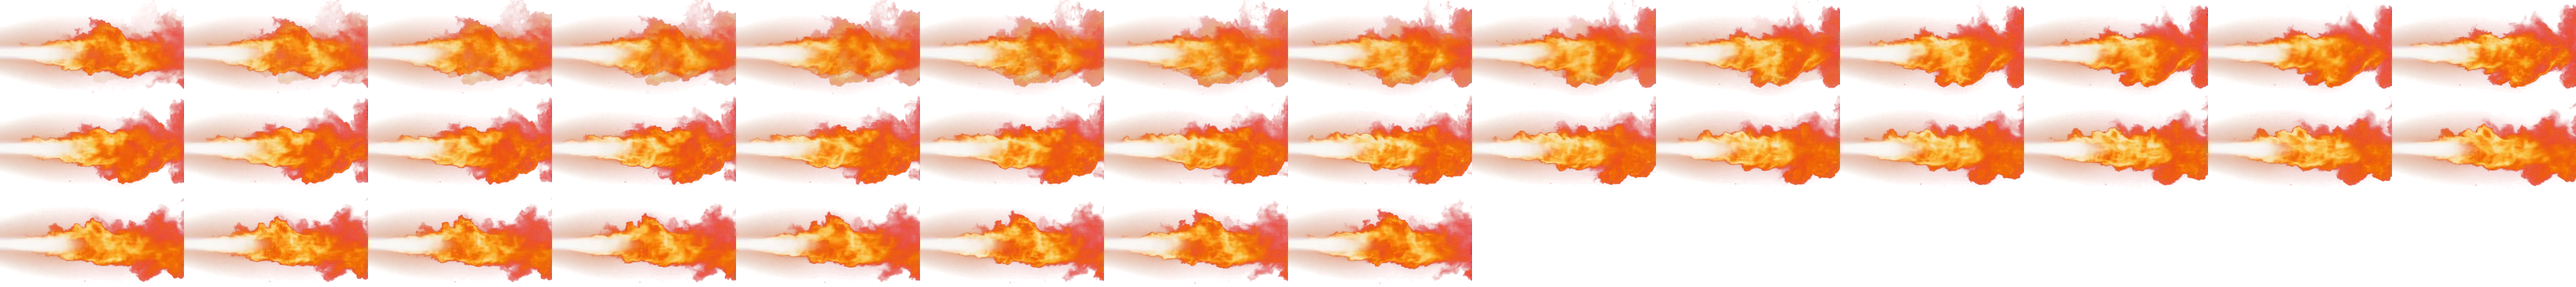
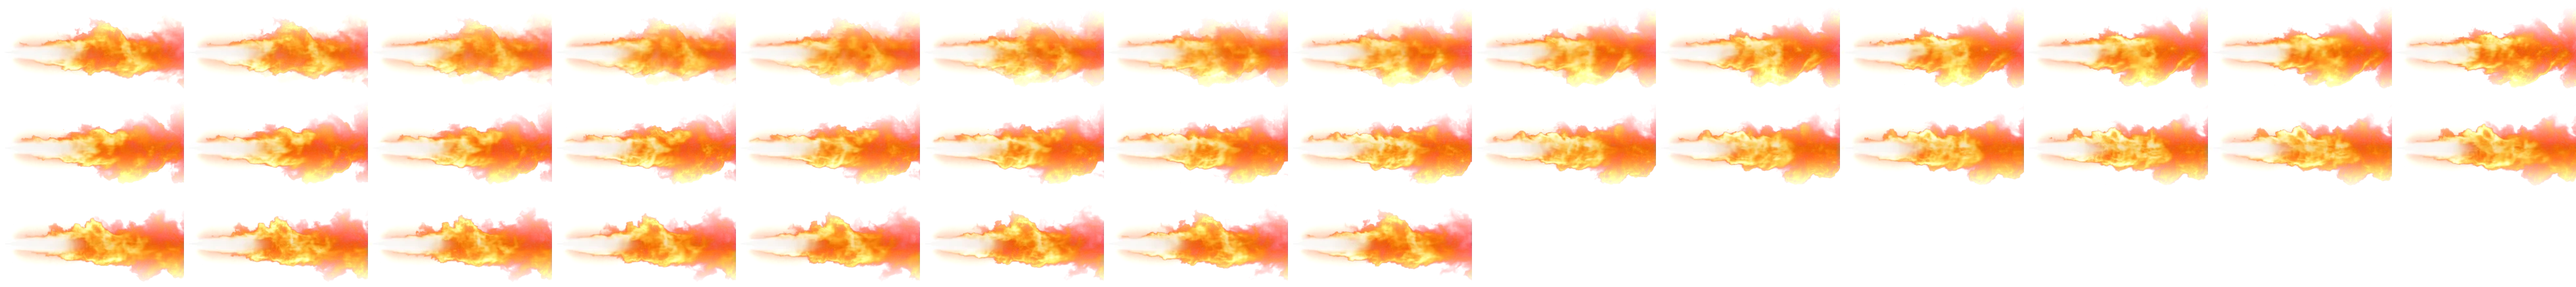
GoT: fire from between the jaws; no straight edges; roomier dock; rustic books
Checked on the TV by screen recording, at full resolution:
- The fire's origin was the snout tip (the upper jaw), so it seemed to
  sit on top of the head. dragon_sprites.py now finds the open mouth
  from the head's profile (the notch between the jaw tips) in every
  frame, and fire runs only while the jaws are both forward and open,
  so it stops as they close instead of trailing from a shut mouth.
- The fire footage entered from its frame edge as a solid bar, a hard
  vertical line. fire_sprites.py tapers it into a soft cone from a
  point and drops the faint haze whose straight edges showed.
- Dock: a theme can ask for more room per app (DOCK_CELL); GoT uses
  up to 380 px, so the dragon lands in the gaps between apps.
- GoT books: worn leather, bronze bands, the art inlaid like a plate,
  a parchment label in Cinzel; spine numerals sit between the bands
  instead of on the second one.

diff --git a/adult-space/hogwarts-tv/app/src/main/assets/www/dragon/dragon.js b/adult-space/hogwarts-tv/app/src/main/assets/www/dragon/dragon.js
@@ -1,2 +1,2 @@
 // made by tools/dragon_sprites.py from dragon/src/*.mp4
-window.DRAGON_SHEETS = {"idle": {"src": "dragon/idle.webp", "n": 61, "fps": 12.0, "cw": 191, "ch": 141, "h": 140, "footX": 124.7, "footY": 140.0, "frames": [[0, 0, 185, 141, 6, 0], [185, 0, 185, 141, 6, 0], [370, 0, 185, 141, 6, 0], [555, 0, 185, 141, 6, 0], [740, 0, 185, 141, 6, 0], [925, 0, 185, 141, 6, 0], [1110, 0, 185, 141, 6, 0], [1295, 0, 185, 141, 6, 0], [1480, 0, 185, 141, 6, 0], [1665, 0, 185, 141, 6, 0], [1850, 0, 185, 141, 6, 0], [2035, 0, 185, 141, 6, 0], [2220, 0, 185, 141, 6, 0], [2405, 0, 185, 141, 6, 0], [2590, 0, 185, 141, 6, 0], [2775, 0, 185, 141, 6, 0], [2960, 0, 185, 141, 6, 0], [3145, 0, 186, 141, 5, 0], [3331, 0, 186, 141, 5, 0], [3517, 0, 187, 141, 4, 0], [3704, 0, 186, 141, 3, 0], [0, 141, 186, 141, 3, 0], [186, 141, 186, 141, 2, 0], [372, 141, 186, 141, 1, 0], [558, 141, 187, 141, 0, 0], [745, 141, 186, 141, 0, 0], [931, 141, 186, 141, 0, 0], [1117, 141, 185, 141, 0, 0], [1302, 141, 185, 141, 0, 0], [1487, 141, 185, 141, 0, 0], [1672, 141, 185, 141, 0, 0], [1857, 141, 185, 141, 0, 0], [2042, 141, 185, 141, 0, 0], [2227, 141, 185, 141, 0, 0], [2412, 141, 185, 141, 0, 0], [2597, 141, 185, 141, 0, 0], [2782, 141, 185, 141, 0, 0], [2967, 141, 185, 141, 0, 0], [3152, 141, 185, 141, 0, 0], [3337, 141, 186, 141, 0, 0], [3523, 141, 187, 141, 0, 0], [3710, 141, 188, 141, 0, 0], [0, 282, 188, 141, 1, 0], [188, 282, 187, 141, 2, 0], [375, 282, 189, 141, 2, 0], [564, 282, 187, 141, 3, 0], [751, 282, 187, 141, 4, 0], [938, 282, 187, 141, 4, 0], [1125, 282, 186, 141, 5, 0], [1311, 282, 186, 141, 5, 0], [1497, 282, 185, 141, 6, 0], [1682, 282, 185, 141, 6, 0], [1867, 282, 185, 141, 6, 0], [2052, 282, 185, 141, 6, 0], [2237, 282, 185, 141, 6, 0], [2422, 282, 185, 141, 6, 0], [2607, 282, 185, 141, 6, 0], [2792, 282, 185, 141, 6, 0], [2977, 282, 185, 141, 6, 0], [3162, 282, 185, 141, 6, 0], [3347, 282, 185, 141, 6, 0]]}, "hop": {"src": "dragon/hop.webp", "n": 61, "fps": 12.0, "cw": 448, "ch": 331, "h": 140, "footX": 212.7, "footY": 328.9, "frames": [[1396, 1999, 186, 145, 97, 186], [0, 2238, 190, 145, 97, 186], [752, 2238, 197, 144, 94, 187], [0, 2383, 207, 141, 93, 190], [626, 2383, 216, 134, 91, 197], [1088, 2383, 224, 125, 89, 206], [1312, 2383, 246, 123, 72, 208], [949, 2238, 275, 144, 48, 187], [835, 1999, 284, 172, 41, 159], [270, 1999, 284, 224, 43, 107], [0, 1734, 275, 265, 52, 66], [817, 619, 271, 278, 53, 53], [546, 1189, 284, 272, 25, 59], [1074, 1734, 283, 247, 0, 79], [1357, 1734, 290, 239, 75, 80], [277, 1464, 269, 268, 178, 45], [1374, 1464, 269, 267, 179, 33], [551, 1734, 252, 261, 171, 25], [0, 1999, 270, 239, 79, 23], [803, 1734, 271, 257, 9, 0], [546, 1464, 271, 268, 9, 0], [543, 619, 274, 285, 6, 0], [1337, 0, 325, 300, 9, 0], [830, 1189, 300, 272, 115, 33], [817, 1464, 284, 268, 159, 27], [1101, 1464, 273, 268, 170, 25], [1088, 619, 265, 278, 147, 23], [0, 912, 281, 277, 61, 20], [0, 619, 275, 293, 5, 0], [865, 323, 267, 294, 13, 0], [786, 0, 275, 305, 5, 0], [1132, 323, 326, 294, 19, 27], [1353, 619, 290, 278, 139, 44], [272, 1189, 274, 273, 170, 42], [281, 912, 270, 276, 171, 37], [1085, 912, 262, 275, 143, 35], [0, 1464, 277, 270, 58, 32], [319, 323, 275, 295, 5, 0], [594, 323, 271, 295, 9, 0], [1061, 0, 276, 305, 4, 0], [0, 323, 319, 296, 18, 17], [1347, 912, 291, 275, 130, 32], [0, 1189, 272, 275, 170, 28], [551, 912, 273, 276, 169, 28], [824, 912, 261, 276, 142, 38], [1130, 1189, 287, 271, 48, 45], [511, 0, 275, 313, 6, 10], [0, 0, 259, 323, 23, 0], [259, 0, 252, 318, 33, 13], [275, 619, 268, 287, 25, 44], [275, 1734, 276, 264, 32, 67], [554, 1999, 281, 215, 35, 116], [1119, 1999, 277, 150, 41, 181], [842, 2383, 246, 129, 68, 202], [411, 2383, 215, 136, 91, 195], [207, 2383, 204, 141, 94, 190], [1416, 2238, 196, 143, 97, 188], [1224, 2238, 192, 144, 97, 187], [190, 2238, 189, 145, 97, 186], [379, 2238, 186, 145, 97, 186], [565, 2238, 187, 145, 97, 186]], "up": 1.17, "down": 4.0, "end": 5.08}, "breath": {"src": "dragon/breath.webp", "n": 61, "fps": 12.0, "cw": 236, "ch": 151, "h": 140, "footX": 135.9, "footY": 150.5, "frames": [[2684, 0, 187, 144, 18, 7], [2871, 0, 185, 144, 18, 7], [2502, 0, 182, 145, 19, 6], [2323, 0, 179, 147, 19, 4], [2148, 0, 175, 148, 20, 3], [1808, 0, 171, 149, 21, 2], [1979, 0, 169, 149, 21, 2], [1479, 0, 165, 150, 22, 1], [1644, 0, 164, 150, 23, 1], [0, 0, 164, 151, 23, 0], [164, 0, 163, 151, 24, 0], [327, 0, 163, 151, 24, 0], [490, 0, 163, 151, 24, 0], [653, 0, 163, 151, 24, 0], [816, 0, 163, 151, 24, 0], [979, 0, 163, 151, 24, 0], [1142, 0, 164, 151, 23, 0], [1306, 0, 173, 151, 19, 0], [3025, 294, 193, 137, 13, 14], [2892, 434, 222, 119, 6, 32], [1779, 434, 233, 129, 1, 22], [0, 434, 236, 137, 0, 14], [661, 151, 236, 141, 0, 10], [0, 151, 236, 143, 0, 8], [236, 151, 236, 143, 0, 8], [897, 151, 236, 141, 0, 10], [1323, 151, 236, 140, 0, 11], [1559, 151, 236, 140, 0, 11], [1795, 151, 236, 140, 0, 11], [2031, 151, 236, 140, 0, 11], [2267, 151, 236, 140, 0, 11], [2503, 151, 236, 140, 0, 11], [2739, 151, 236, 140, 0, 11], [2975, 151, 236, 140, 0, 11], [0, 294, 236, 140, 0, 11], [236, 294, 236, 140, 0, 11], [472, 294, 236, 140, 0, 11], [708, 294, 236, 140, 0, 11], [944, 294, 236, 140, 0, 11], [1180, 294, 236, 140, 0, 11], [1416, 294, 236, 140, 0, 11], [1652, 294, 236, 140, 0, 11], [2081, 294, 236, 139, 0, 12], [2317, 294, 236, 139, 0, 12], [2553, 294, 236, 139, 0, 12], [2789, 294, 236, 138, 0, 13], [236, 434, 236, 137, 0, 14], [669, 434, 236, 136, 0, 15], [1107, 434, 234, 133, 1, 18], [1548, 434, 231, 130, 2, 21], [2224, 434, 227, 126, 4, 25], [2669, 434, 223, 121, 5, 30], [2451, 434, 218, 122, 7, 29], [2012, 434, 212, 127, 9, 24], [1341, 434, 207, 131, 11, 20], [905, 434, 202, 134, 12, 17], [472, 434, 197, 137, 14, 14], [1888, 294, 193, 140, 16, 11], [1133, 151, 190, 141, 17, 10], [472, 151, 189, 143, 17, 8], [3056, 0, 187, 144, 18, 7]], "mouth": [[201.1, 44.6], [199.5, 43.5], [197.3, 41.9], [194.7, 40.1], [192.0, 38.1], [188.7, 35.6], [186.0, 33.3], [183.9, 103.3], [183.9, 142.7], [183.9, 142.7], [183.9, 142.7], [183.9, 142.7], [183.9, 142.7], [183.9, 142.7], [183.9, 142.7], [183.9, 142.7], [183.9, 142.7], [188.2, 42.7], [204.1, 56.6], [225.1, 69.0], [230.7, 70.3], [232.9, 70.1], [234.0, 70.0], [234.2, 69.4], [234.8, 68.9], [234.8, 67.9], [235.0, 67.4], [235.0, 67.0], [235.0, 66.6], [235.0, 66.9], [235.3, 66.7], [235.3, 66.2], [235.6, 66.0], [235.6, 66.1], [235.6, 66.1], [235.8, 66.1], [235.8, 66.1], [235.8, 66.2], [235.8, 66.3], [235.8, 66.2], [235.6, 66.4], [235.8, 66.3], [235.6, 66.7], [235.8, 66.7], [235.6, 67.3], [235.0, 67.4], [234.5, 67.9], [233.4, 68.1], [231.8, 67.6], [229.7, 66.7], [227.5, 65.6], [224.8, 64.2], [221.6, 61.8], [217.3, 58.5], [214.0, 54.9], [210.3, 52.0], [208.1, 49.9], [205.4, 47.7], [203.8, 46.2], [202.2, 45.0], [201.1, 44.5]], "fire": [1.58, 4.5]}};
+window.DRAGON_SHEETS = {"idle": {"src": "dragon/idle.webp", "n": 61, "fps": 12.0, "cw": 191, "ch": 141, "h": 140, "footX": 124.7, "footY": 140.0, "frames": [[0, 0, 185, 141, 6, 0], [185, 0, 185, 141, 6, 0], [370, 0, 185, 141, 6, 0], [555, 0, 185, 141, 6, 0], [740, 0, 185, 141, 6, 0], [925, 0, 185, 141, 6, 0], [1110, 0, 185, 141, 6, 0], [1295, 0, 185, 141, 6, 0], [1480, 0, 185, 141, 6, 0], [1665, 0, 185, 141, 6, 0], [1850, 0, 185, 141, 6, 0], [2035, 0, 185, 141, 6, 0], [2220, 0, 185, 141, 6, 0], [2405, 0, 185, 141, 6, 0], [2590, 0, 185, 141, 6, 0], [2775, 0, 185, 141, 6, 0], [2960, 0, 185, 141, 6, 0], [3145, 0, 186, 141, 5, 0], [3331, 0, 186, 141, 5, 0], [3517, 0, 187, 141, 4, 0], [3704, 0, 186, 141, 3, 0], [0, 141, 186, 141, 3, 0], [186, 141, 186, 141, 2, 0], [372, 141, 186, 141, 1, 0], [558, 141, 187, 141, 0, 0], [745, 141, 186, 141, 0, 0], [931, 141, 186, 141, 0, 0], [1117, 141, 185, 141, 0, 0], [1302, 141, 185, 141, 0, 0], [1487, 141, 185, 141, 0, 0], [1672, 141, 185, 141, 0, 0], [1857, 141, 185, 141, 0, 0], [2042, 141, 185, 141, 0, 0], [2227, 141, 185, 141, 0, 0], [2412, 141, 185, 141, 0, 0], [2597, 141, 185, 141, 0, 0], [2782, 141, 185, 141, 0, 0], [2967, 141, 185, 141, 0, 0], [3152, 141, 185, 141, 0, 0], [3337, 141, 186, 141, 0, 0], [3523, 141, 187, 141, 0, 0], [3710, 141, 188, 141, 0, 0], [0, 282, 188, 141, 1, 0], [188, 282, 187, 141, 2, 0], [375, 282, 189, 141, 2, 0], [564, 282, 187, 141, 3, 0], [751, 282, 187, 141, 4, 0], [938, 282, 187, 141, 4, 0], [1125, 282, 186, 141, 5, 0], [1311, 282, 186, 141, 5, 0], [1497, 282, 185, 141, 6, 0], [1682, 282, 185, 141, 6, 0], [1867, 282, 185, 141, 6, 0], [2052, 282, 185, 141, 6, 0], [2237, 282, 185, 141, 6, 0], [2422, 282, 185, 141, 6, 0], [2607, 282, 185, 141, 6, 0], [2792, 282, 185, 141, 6, 0], [2977, 282, 185, 141, 6, 0], [3162, 282, 185, 141, 6, 0], [3347, 282, 185, 141, 6, 0]]}, "hop": {"src": "dragon/hop.webp", "n": 61, "fps": 12.0, "cw": 448, "ch": 331, "h": 140, "footX": 212.7, "footY": 328.9, "frames": [[1396, 1999, 186, 145, 97, 186], [0, 2238, 190, 145, 97, 186], [752, 2238, 197, 144, 94, 187], [0, 2383, 207, 141, 93, 190], [626, 2383, 216, 134, 91, 197], [1088, 2383, 224, 125, 89, 206], [1312, 2383, 246, 123, 72, 208], [949, 2238, 275, 144, 48, 187], [835, 1999, 284, 172, 41, 159], [270, 1999, 284, 224, 43, 107], [0, 1734, 275, 265, 52, 66], [817, 619, 271, 278, 53, 53], [546, 1189, 284, 272, 25, 59], [1074, 1734, 283, 247, 0, 79], [1357, 1734, 290, 239, 75, 80], [277, 1464, 269, 268, 178, 45], [1374, 1464, 269, 267, 179, 33], [551, 1734, 252, 261, 171, 25], [0, 1999, 270, 239, 79, 23], [803, 1734, 271, 257, 9, 0], [546, 1464, 271, 268, 9, 0], [543, 619, 274, 285, 6, 0], [1337, 0, 325, 300, 9, 0], [830, 1189, 300, 272, 115, 33], [817, 1464, 284, 268, 159, 27], [1101, 1464, 273, 268, 170, 25], [1088, 619, 265, 278, 147, 23], [0, 912, 281, 277, 61, 20], [0, 619, 275, 293, 5, 0], [865, 323, 267, 294, 13, 0], [786, 0, 275, 305, 5, 0], [1132, 323, 326, 294, 19, 27], [1353, 619, 290, 278, 139, 44], [272, 1189, 274, 273, 170, 42], [281, 912, 270, 276, 171, 37], [1085, 912, 262, 275, 143, 35], [0, 1464, 277, 270, 58, 32], [319, 323, 275, 295, 5, 0], [594, 323, 271, 295, 9, 0], [1061, 0, 276, 305, 4, 0], [0, 323, 319, 296, 18, 17], [1347, 912, 291, 275, 130, 32], [0, 1189, 272, 275, 170, 28], [551, 912, 273, 276, 169, 28], [824, 912, 261, 276, 142, 38], [1130, 1189, 287, 271, 48, 45], [511, 0, 275, 313, 6, 10], [0, 0, 259, 323, 23, 0], [259, 0, 252, 318, 33, 13], [275, 619, 268, 287, 25, 44], [275, 1734, 276, 264, 32, 67], [554, 1999, 281, 215, 35, 116], [1119, 1999, 277, 150, 41, 181], [842, 2383, 246, 129, 68, 202], [411, 2383, 215, 136, 91, 195], [207, 2383, 204, 141, 94, 190], [1416, 2238, 196, 143, 97, 188], [1224, 2238, 192, 144, 97, 187], [190, 2238, 189, 145, 97, 186], [379, 2238, 186, 145, 97, 186], [565, 2238, 187, 145, 97, 186]], "up": 1.17, "down": 4.0, "end": 5.08}, "breath": {"src": "dragon/breath.webp", "n": 61, "fps": 12.0, "cw": 236, "ch": 151, "h": 140, "footX": 135.9, "footY": 150.5, "frames": [[2684, 0, 187, 144, 18, 7], [2871, 0, 185, 144, 18, 7], [2502, 0, 182, 145, 19, 6], [2323, 0, 179, 147, 19, 4], [2148, 0, 175, 148, 20, 3], [1808, 0, 171, 149, 21, 2], [1979, 0, 169, 149, 21, 2], [1479, 0, 165, 150, 22, 1], [1644, 0, 164, 150, 23, 1], [0, 0, 164, 151, 23, 0], [164, 0, 163, 151, 24, 0], [327, 0, 163, 151, 24, 0], [490, 0, 163, 151, 24, 0], [653, 0, 163, 151, 24, 0], [816, 0, 163, 151, 24, 0], [979, 0, 163, 151, 24, 0], [1142, 0, 164, 151, 23, 0], [1306, 0, 173, 151, 19, 0], [3025, 294, 193, 137, 13, 14], [2892, 434, 222, 119, 6, 32], [1779, 434, 233, 129, 1, 22], [0, 434, 236, 137, 0, 14], [661, 151, 236, 141, 0, 10], [0, 151, 236, 143, 0, 8], [236, 151, 236, 143, 0, 8], [897, 151, 236, 141, 0, 10], [1323, 151, 236, 140, 0, 11], [1559, 151, 236, 140, 0, 11], [1795, 151, 236, 140, 0, 11], [2031, 151, 236, 140, 0, 11], [2267, 151, 236, 140, 0, 11], [2503, 151, 236, 140, 0, 11], [2739, 151, 236, 140, 0, 11], [2975, 151, 236, 140, 0, 11], [0, 294, 236, 140, 0, 11], [236, 294, 236, 140, 0, 11], [472, 294, 236, 140, 0, 11], [708, 294, 236, 140, 0, 11], [944, 294, 236, 140, 0, 11], [1180, 294, 236, 140, 0, 11], [1416, 294, 236, 140, 0, 11], [1652, 294, 236, 140, 0, 11], [2081, 294, 236, 139, 0, 12], [2317, 294, 236, 139, 0, 12], [2553, 294, 236, 139, 0, 12], [2789, 294, 236, 138, 0, 13], [236, 434, 236, 137, 0, 14], [669, 434, 236, 136, 0, 15], [1107, 434, 234, 133, 1, 18], [1548, 434, 231, 130, 2, 21], [2224, 434, 227, 126, 4, 25], [2669, 434, 223, 121, 5, 30], [2451, 434, 218, 122, 7, 29], [2012, 434, 212, 127, 9, 24], [1341, 434, 207, 131, 11, 20], [905, 434, 202, 134, 12, 17], [472, 434, 197, 137, 14, 14], [1888, 294, 193, 140, 16, 11], [1133, 151, 190, 141, 17, 10], [472, 151, 189, 143, 17, 8], [3056, 0, 187, 144, 18, 7]], "mouth": [[178.4, 52.5], [177.4, 51.4], [176.3, 49.8], [175.0, 47.7], [173.4, 45.2], [171.5, 42.3], [169.9, 39.6], [183.9, 103.3], [183.9, 142.7], [183.9, 142.7], [183.9, 142.7], [183.9, 142.7], [183.9, 142.7], [183.9, 142.7], [183.9, 142.7], [183.9, 142.7], [183.9, 142.7], [173.1, 51.7], [204.1, 56.6], [212.2, 71.3], [217.5, 77.5], [220.5, 78.3], [222.7, 79.4], [223.2, 80.8], [223.6, 80.0], [224.5, 79.2], [224.3, 79.4], [224.8, 75.7], [225.1, 76.2], [224.8, 77.8], [225.2, 77.3], [225.3, 75.4], [225.3, 75.7], [225.8, 78.6], [225.9, 76.2], [225.8, 77.8], [226.2, 75.1], [225.9, 74.8], [225.5, 77.8], [225.9, 74.8], [225.5, 78.3], [225.8, 75.1], [225.5, 78.9], [225.5, 78.1], [225.3, 75.9], [223.7, 75.4], [223.2, 75.7], [222.4, 74.3], [221.4, 71.3], [221.0, 70.3], [220.0, 69.2], [218.5, 67.3], [221.6, 61.8], [217.3, 58.5], [214.0, 54.9], [210.3, 52.0], [182.3, 62.2], [180.7, 57.9], [179.8, 55.2], [178.8, 53.3], [178.5, 52.8]], "fire": [1.58, 4.33]}};

diff --git a/adult-space/hogwarts/dragon/dragon.js b/adult-space/hogwarts/dragon/dragon.js
@@ -1,2 +1,2 @@
 // made by tools/dragon_sprites.py from dragon/src/*.mp4
-window.DRAGON_SHEETS = {"idle": {"src": "dragon/idle.webp", "n": 61, "fps": 12.0, "cw": 191, "ch": 141, "h": 140, "footX": 124.7, "footY": 140.0, "frames": [[0, 0, 185, 141, 6, 0], [185, 0, 185, 141, 6, 0], [370, 0, 185, 141, 6, 0], [555, 0, 185, 141, 6, 0], [740, 0, 185, 141, 6, 0], [925, 0, 185, 141, 6, 0], [1110, 0, 185, 141, 6, 0], [1295, 0, 185, 141, 6, 0], [1480, 0, 185, 141, 6, 0], [1665, 0, 185, 141, 6, 0], [1850, 0, 185, 141, 6, 0], [2035, 0, 185, 141, 6, 0], [2220, 0, 185, 141, 6, 0], [2405, 0, 185, 141, 6, 0], [2590, 0, 185, 141, 6, 0], [2775, 0, 185, 141, 6, 0], [2960, 0, 185, 141, 6, 0], [3145, 0, 186, 141, 5, 0], [3331, 0, 186, 141, 5, 0], [3517, 0, 187, 141, 4, 0], [3704, 0, 186, 141, 3, 0], [0, 141, 186, 141, 3, 0], [186, 141, 186, 141, 2, 0], [372, 141, 186, 141, 1, 0], [558, 141, 187, 141, 0, 0], [745, 141, 186, 141, 0, 0], [931, 141, 186, 141, 0, 0], [1117, 141, 185, 141, 0, 0], [1302, 141, 185, 141, 0, 0], [1487, 141, 185, 141, 0, 0], [1672, 141, 185, 141, 0, 0], [1857, 141, 185, 141, 0, 0], [2042, 141, 185, 141, 0, 0], [2227, 141, 185, 141, 0, 0], [2412, 141, 185, 141, 0, 0], [2597, 141, 185, 141, 0, 0], [2782, 141, 185, 141, 0, 0], [2967, 141, 185, 141, 0, 0], [3152, 141, 185, 141, 0, 0], [3337, 141, 186, 141, 0, 0], [3523, 141, 187, 141, 0, 0], [3710, 141, 188, 141, 0, 0], [0, 282, 188, 141, 1, 0], [188, 282, 187, 141, 2, 0], [375, 282, 189, 141, 2, 0], [564, 282, 187, 141, 3, 0], [751, 282, 187, 141, 4, 0], [938, 282, 187, 141, 4, 0], [1125, 282, 186, 141, 5, 0], [1311, 282, 186, 141, 5, 0], [1497, 282, 185, 141, 6, 0], [1682, 282, 185, 141, 6, 0], [1867, 282, 185, 141, 6, 0], [2052, 282, 185, 141, 6, 0], [2237, 282, 185, 141, 6, 0], [2422, 282, 185, 141, 6, 0], [2607, 282, 185, 141, 6, 0], [2792, 282, 185, 141, 6, 0], [2977, 282, 185, 141, 6, 0], [3162, 282, 185, 141, 6, 0], [3347, 282, 185, 141, 6, 0]]}, "hop": {"src": "dragon/hop.webp", "n": 61, "fps": 12.0, "cw": 448, "ch": 331, "h": 140, "footX": 212.7, "footY": 328.9, "frames": [[1396, 1999, 186, 145, 97, 186], [0, 2238, 190, 145, 97, 186], [752, 2238, 197, 144, 94, 187], [0, 2383, 207, 141, 93, 190], [626, 2383, 216, 134, 91, 197], [1088, 2383, 224, 125, 89, 206], [1312, 2383, 246, 123, 72, 208], [949, 2238, 275, 144, 48, 187], [835, 1999, 284, 172, 41, 159], [270, 1999, 284, 224, 43, 107], [0, 1734, 275, 265, 52, 66], [817, 619, 271, 278, 53, 53], [546, 1189, 284, 272, 25, 59], [1074, 1734, 283, 247, 0, 79], [1357, 1734, 290, 239, 75, 80], [277, 1464, 269, 268, 178, 45], [1374, 1464, 269, 267, 179, 33], [551, 1734, 252, 261, 171, 25], [0, 1999, 270, 239, 79, 23], [803, 1734, 271, 257, 9, 0], [546, 1464, 271, 268, 9, 0], [543, 619, 274, 285, 6, 0], [1337, 0, 325, 300, 9, 0], [830, 1189, 300, 272, 115, 33], [817, 1464, 284, 268, 159, 27], [1101, 1464, 273, 268, 170, 25], [1088, 619, 265, 278, 147, 23], [0, 912, 281, 277, 61, 20], [0, 619, 275, 293, 5, 0], [865, 323, 267, 294, 13, 0], [786, 0, 275, 305, 5, 0], [1132, 323, 326, 294, 19, 27], [1353, 619, 290, 278, 139, 44], [272, 1189, 274, 273, 170, 42], [281, 912, 270, 276, 171, 37], [1085, 912, 262, 275, 143, 35], [0, 1464, 277, 270, 58, 32], [319, 323, 275, 295, 5, 0], [594, 323, 271, 295, 9, 0], [1061, 0, 276, 305, 4, 0], [0, 323, 319, 296, 18, 17], [1347, 912, 291, 275, 130, 32], [0, 1189, 272, 275, 170, 28], [551, 912, 273, 276, 169, 28], [824, 912, 261, 276, 142, 38], [1130, 1189, 287, 271, 48, 45], [511, 0, 275, 313, 6, 10], [0, 0, 259, 323, 23, 0], [259, 0, 252, 318, 33, 13], [275, 619, 268, 287, 25, 44], [275, 1734, 276, 264, 32, 67], [554, 1999, 281, 215, 35, 116], [1119, 1999, 277, 150, 41, 181], [842, 2383, 246, 129, 68, 202], [411, 2383, 215, 136, 91, 195], [207, 2383, 204, 141, 94, 190], [1416, 2238, 196, 143, 97, 188], [1224, 2238, 192, 144, 97, 187], [190, 2238, 189, 145, 97, 186], [379, 2238, 186, 145, 97, 186], [565, 2238, 187, 145, 97, 186]], "up": 1.17, "down": 4.0, "end": 5.08}, "breath": {"src": "dragon/breath.webp", "n": 61, "fps": 12.0, "cw": 236, "ch": 151, "h": 140, "footX": 135.9, "footY": 150.5, "frames": [[2684, 0, 187, 144, 18, 7], [2871, 0, 185, 144, 18, 7], [2502, 0, 182, 145, 19, 6], [2323, 0, 179, 147, 19, 4], [2148, 0, 175, 148, 20, 3], [1808, 0, 171, 149, 21, 2], [1979, 0, 169, 149, 21, 2], [1479, 0, 165, 150, 22, 1], [1644, 0, 164, 150, 23, 1], [0, 0, 164, 151, 23, 0], [164, 0, 163, 151, 24, 0], [327, 0, 163, 151, 24, 0], [490, 0, 163, 151, 24, 0], [653, 0, 163, 151, 24, 0], [816, 0, 163, 151, 24, 0], [979, 0, 163, 151, 24, 0], [1142, 0, 164, 151, 23, 0], [1306, 0, 173, 151, 19, 0], [3025, 294, 193, 137, 13, 14], [2892, 434, 222, 119, 6, 32], [1779, 434, 233, 129, 1, 22], [0, 434, 236, 137, 0, 14], [661, 151, 236, 141, 0, 10], [0, 151, 236, 143, 0, 8], [236, 151, 236, 143, 0, 8], [897, 151, 236, 141, 0, 10], [1323, 151, 236, 140, 0, 11], [1559, 151, 236, 140, 0, 11], [1795, 151, 236, 140, 0, 11], [2031, 151, 236, 140, 0, 11], [2267, 151, 236, 140, 0, 11], [2503, 151, 236, 140, 0, 11], [2739, 151, 236, 140, 0, 11], [2975, 151, 236, 140, 0, 11], [0, 294, 236, 140, 0, 11], [236, 294, 236, 140, 0, 11], [472, 294, 236, 140, 0, 11], [708, 294, 236, 140, 0, 11], [944, 294, 236, 140, 0, 11], [1180, 294, 236, 140, 0, 11], [1416, 294, 236, 140, 0, 11], [1652, 294, 236, 140, 0, 11], [2081, 294, 236, 139, 0, 12], [2317, 294, 236, 139, 0, 12], [2553, 294, 236, 139, 0, 12], [2789, 294, 236, 138, 0, 13], [236, 434, 236, 137, 0, 14], [669, 434, 236, 136, 0, 15], [1107, 434, 234, 133, 1, 18], [1548, 434, 231, 130, 2, 21], [2224, 434, 227, 126, 4, 25], [2669, 434, 223, 121, 5, 30], [2451, 434, 218, 122, 7, 29], [2012, 434, 212, 127, 9, 24], [1341, 434, 207, 131, 11, 20], [905, 434, 202, 134, 12, 17], [472, 434, 197, 137, 14, 14], [1888, 294, 193, 140, 16, 11], [1133, 151, 190, 141, 17, 10], [472, 151, 189, 143, 17, 8], [3056, 0, 187, 144, 18, 7]], "mouth": [[201.1, 44.6], [199.5, 43.5], [197.3, 41.9], [194.7, 40.1], [192.0, 38.1], [188.7, 35.6], [186.0, 33.3], [183.9, 103.3], [183.9, 142.7], [183.9, 142.7], [183.9, 142.7], [183.9, 142.7], [183.9, 142.7], [183.9, 142.7], [183.9, 142.7], [183.9, 142.7], [183.9, 142.7], [188.2, 42.7], [204.1, 56.6], [225.1, 69.0], [230.7, 70.3], [232.9, 70.1], [234.0, 70.0], [234.2, 69.4], [234.8, 68.9], [234.8, 67.9], [235.0, 67.4], [235.0, 67.0], [235.0, 66.6], [235.0, 66.9], [235.3, 66.7], [235.3, 66.2], [235.6, 66.0], [235.6, 66.1], [235.6, 66.1], [235.8, 66.1], [235.8, 66.1], [235.8, 66.2], [235.8, 66.3], [235.8, 66.2], [235.6, 66.4], [235.8, 66.3], [235.6, 66.7], [235.8, 66.7], [235.6, 67.3], [235.0, 67.4], [234.5, 67.9], [233.4, 68.1], [231.8, 67.6], [229.7, 66.7], [227.5, 65.6], [224.8, 64.2], [221.6, 61.8], [217.3, 58.5], [214.0, 54.9], [210.3, 52.0], [208.1, 49.9], [205.4, 47.7], [203.8, 46.2], [202.2, 45.0], [201.1, 44.5]], "fire": [1.58, 4.5]}};
+window.DRAGON_SHEETS = {"idle": {"src": "dragon/idle.webp", "n": 61, "fps": 12.0, "cw": 191, "ch": 141, "h": 140, "footX": 124.7, "footY": 140.0, "frames": [[0, 0, 185, 141, 6, 0], [185, 0, 185, 141, 6, 0], [370, 0, 185, 141, 6, 0], [555, 0, 185, 141, 6, 0], [740, 0, 185, 141, 6, 0], [925, 0, 185, 141, 6, 0], [1110, 0, 185, 141, 6, 0], [1295, 0, 185, 141, 6, 0], [1480, 0, 185, 141, 6, 0], [1665, 0, 185, 141, 6, 0], [1850, 0, 185, 141, 6, 0], [2035, 0, 185, 141, 6, 0], [2220, 0, 185, 141, 6, 0], [2405, 0, 185, 141, 6, 0], [2590, 0, 185, 141, 6, 0], [2775, 0, 185, 141, 6, 0], [2960, 0, 185, 141, 6, 0], [3145, 0, 186, 141, 5, 0], [3331, 0, 186, 141, 5, 0], [3517, 0, 187, 141, 4, 0], [3704, 0, 186, 141, 3, 0], [0, 141, 186, 141, 3, 0], [186, 141, 186, 141, 2, 0], [372, 141, 186, 141, 1, 0], [558, 141, 187, 141, 0, 0], [745, 141, 186, 141, 0, 0], [931, 141, 186, 141, 0, 0], [1117, 141, 185, 141, 0, 0], [1302, 141, 185, 141, 0, 0], [1487, 141, 185, 141, 0, 0], [1672, 141, 185, 141, 0, 0], [1857, 141, 185, 141, 0, 0], [2042, 141, 185, 141, 0, 0], [2227, 141, 185, 141, 0, 0], [2412, 141, 185, 141, 0, 0], [2597, 141, 185, 141, 0, 0], [2782, 141, 185, 141, 0, 0], [2967, 141, 185, 141, 0, 0], [3152, 141, 185, 141, 0, 0], [3337, 141, 186, 141, 0, 0], [3523, 141, 187, 141, 0, 0], [3710, 141, 188, 141, 0, 0], [0, 282, 188, 141, 1, 0], [188, 282, 187, 141, 2, 0], [375, 282, 189, 141, 2, 0], [564, 282, 187, 141, 3, 0], [751, 282, 187, 141, 4, 0], [938, 282, 187, 141, 4, 0], [1125, 282, 186, 141, 5, 0], [1311, 282, 186, 141, 5, 0], [1497, 282, 185, 141, 6, 0], [1682, 282, 185, 141, 6, 0], [1867, 282, 185, 141, 6, 0], [2052, 282, 185, 141, 6, 0], [2237, 282, 185, 141, 6, 0], [2422, 282, 185, 141, 6, 0], [2607, 282, 185, 141, 6, 0], [2792, 282, 185, 141, 6, 0], [2977, 282, 185, 141, 6, 0], [3162, 282, 185, 141, 6, 0], [3347, 282, 185, 141, 6, 0]]}, "hop": {"src": "dragon/hop.webp", "n": 61, "fps": 12.0, "cw": 448, "ch": 331, "h": 140, "footX": 212.7, "footY": 328.9, "frames": [[1396, 1999, 186, 145, 97, 186], [0, 2238, 190, 145, 97, 186], [752, 2238, 197, 144, 94, 187], [0, 2383, 207, 141, 93, 190], [626, 2383, 216, 134, 91, 197], [1088, 2383, 224, 125, 89, 206], [1312, 2383, 246, 123, 72, 208], [949, 2238, 275, 144, 48, 187], [835, 1999, 284, 172, 41, 159], [270, 1999, 284, 224, 43, 107], [0, 1734, 275, 265, 52, 66], [817, 619, 271, 278, 53, 53], [546, 1189, 284, 272, 25, 59], [1074, 1734, 283, 247, 0, 79], [1357, 1734, 290, 239, 75, 80], [277, 1464, 269, 268, 178, 45], [1374, 1464, 269, 267, 179, 33], [551, 1734, 252, 261, 171, 25], [0, 1999, 270, 239, 79, 23], [803, 1734, 271, 257, 9, 0], [546, 1464, 271, 268, 9, 0], [543, 619, 274, 285, 6, 0], [1337, 0, 325, 300, 9, 0], [830, 1189, 300, 272, 115, 33], [817, 1464, 284, 268, 159, 27], [1101, 1464, 273, 268, 170, 25], [1088, 619, 265, 278, 147, 23], [0, 912, 281, 277, 61, 20], [0, 619, 275, 293, 5, 0], [865, 323, 267, 294, 13, 0], [786, 0, 275, 305, 5, 0], [1132, 323, 326, 294, 19, 27], [1353, 619, 290, 278, 139, 44], [272, 1189, 274, 273, 170, 42], [281, 912, 270, 276, 171, 37], [1085, 912, 262, 275, 143, 35], [0, 1464, 277, 270, 58, 32], [319, 323, 275, 295, 5, 0], [594, 323, 271, 295, 9, 0], [1061, 0, 276, 305, 4, 0], [0, 323, 319, 296, 18, 17], [1347, 912, 291, 275, 130, 32], [0, 1189, 272, 275, 170, 28], [551, 912, 273, 276, 169, 28], [824, 912, 261, 276, 142, 38], [1130, 1189, 287, 271, 48, 45], [511, 0, 275, 313, 6, 10], [0, 0, 259, 323, 23, 0], [259, 0, 252, 318, 33, 13], [275, 619, 268, 287, 25, 44], [275, 1734, 276, 264, 32, 67], [554, 1999, 281, 215, 35, 116], [1119, 1999, 277, 150, 41, 181], [842, 2383, 246, 129, 68, 202], [411, 2383, 215, 136, 91, 195], [207, 2383, 204, 141, 94, 190], [1416, 2238, 196, 143, 97, 188], [1224, 2238, 192, 144, 97, 187], [190, 2238, 189, 145, 97, 186], [379, 2238, 186, 145, 97, 186], [565, 2238, 187, 145, 97, 186]], "up": 1.17, "down": 4.0, "end": 5.08}, "breath": {"src": "dragon/breath.webp", "n": 61, "fps": 12.0, "cw": 236, "ch": 151, "h": 140, "footX": 135.9, "footY": 150.5, "frames": [[2684, 0, 187, 144, 18, 7], [2871, 0, 185, 144, 18, 7], [2502, 0, 182, 145, 19, 6], [2323, 0, 179, 147, 19, 4], [2148, 0, 175, 148, 20, 3], [1808, 0, 171, 149, 21, 2], [1979, 0, 169, 149, 21, 2], [1479, 0, 165, 150, 22, 1], [1644, 0, 164, 150, 23, 1], [0, 0, 164, 151, 23, 0], [164, 0, 163, 151, 24, 0], [327, 0, 163, 151, 24, 0], [490, 0, 163, 151, 24, 0], [653, 0, 163, 151, 24, 0], [816, 0, 163, 151, 24, 0], [979, 0, 163, 151, 24, 0], [1142, 0, 164, 151, 23, 0], [1306, 0, 173, 151, 19, 0], [3025, 294, 193, 137, 13, 14], [2892, 434, 222, 119, 6, 32], [1779, 434, 233, 129, 1, 22], [0, 434, 236, 137, 0, 14], [661, 151, 236, 141, 0, 10], [0, 151, 236, 143, 0, 8], [236, 151, 236, 143, 0, 8], [897, 151, 236, 141, 0, 10], [1323, 151, 236, 140, 0, 11], [1559, 151, 236, 140, 0, 11], [1795, 151, 236, 140, 0, 11], [2031, 151, 236, 140, 0, 11], [2267, 151, 236, 140, 0, 11], [2503, 151, 236, 140, 0, 11], [2739, 151, 236, 140, 0, 11], [2975, 151, 236, 140, 0, 11], [0, 294, 236, 140, 0, 11], [236, 294, 236, 140, 0, 11], [472, 294, 236, 140, 0, 11], [708, 294, 236, 140, 0, 11], [944, 294, 236, 140, 0, 11], [1180, 294, 236, 140, 0, 11], [1416, 294, 236, 140, 0, 11], [1652, 294, 236, 140, 0, 11], [2081, 294, 236, 139, 0, 12], [2317, 294, 236, 139, 0, 12], [2553, 294, 236, 139, 0, 12], [2789, 294, 236, 138, 0, 13], [236, 434, 236, 137, 0, 14], [669, 434, 236, 136, 0, 15], [1107, 434, 234, 133, 1, 18], [1548, 434, 231, 130, 2, 21], [2224, 434, 227, 126, 4, 25], [2669, 434, 223, 121, 5, 30], [2451, 434, 218, 122, 7, 29], [2012, 434, 212, 127, 9, 24], [1341, 434, 207, 131, 11, 20], [905, 434, 202, 134, 12, 17], [472, 434, 197, 137, 14, 14], [1888, 294, 193, 140, 16, 11], [1133, 151, 190, 141, 17, 10], [472, 151, 189, 143, 17, 8], [3056, 0, 187, 144, 18, 7]], "mouth": [[178.4, 52.5], [177.4, 51.4], [176.3, 49.8], [175.0, 47.7], [173.4, 45.2], [171.5, 42.3], [169.9, 39.6], [183.9, 103.3], [183.9, 142.7], [183.9, 142.7], [183.9, 142.7], [183.9, 142.7], [183.9, 142.7], [183.9, 142.7], [183.9, 142.7], [183.9, 142.7], [183.9, 142.7], [173.1, 51.7], [204.1, 56.6], [212.2, 71.3], [217.5, 77.5], [220.5, 78.3], [222.7, 79.4], [223.2, 80.8], [223.6, 80.0], [224.5, 79.2], [224.3, 79.4], [224.8, 75.7], [225.1, 76.2], [224.8, 77.8], [225.2, 77.3], [225.3, 75.4], [225.3, 75.7], [225.8, 78.6], [225.9, 76.2], [225.8, 77.8], [226.2, 75.1], [225.9, 74.8], [225.5, 77.8], [225.9, 74.8], [225.5, 78.3], [225.8, 75.1], [225.5, 78.9], [225.5, 78.1], [225.3, 75.9], [223.7, 75.4], [223.2, 75.7], [222.4, 74.3], [221.4, 71.3], [221.0, 70.3], [220.0, 69.2], [218.5, 67.3], [221.6, 61.8], [217.3, 58.5], [214.0, 54.9], [210.3, 52.0], [182.3, 62.2], [180.7, 57.9], [179.8, 55.2], [178.8, 53.3], [178.5, 52.8]], "fire": [1.58, 4.33]}};

diff --git a/adult-space/hogwarts-tv/app/src/main/assets/www/themes/theme.js b/adult-space/hogwarts-tv/app/src/main/assets/www/themes/theme.js
@@ -34,6 +34,24 @@
     body[data-theme="got"] #moonglow, body[data-theme="got"] #cloud1, body[data-theme="got"] #potG, body[data-theme="got"] #potP,
     body[data-theme="got"] #potA { display: none !important; }
     body[data-nogarden] #toGarden { display: none !important; }
+    /* Game of Thrones books: rustic. Worn leather, bronze bands, the art inlaid like a plate, a parchment label */
+    body[data-theme="got"] .spine .roman { margin-top: 3px; font-family: "Cinzel", Georgia, serif; font-weight: 700; font-size: 14px;
+                                           color: #d9b778; letter-spacing: .04em; }
+    body[data-theme="got"] .spine .stitle { font-family: "Cinzel", Georgia, serif; font-weight: 600; font-size: 13px; letter-spacing: .12em;
+                                            color: #c9a66a; text-transform: uppercase; }
+    body[data-theme="got"] .spine .star { visibility: hidden; }
+    body[data-theme="got"] .spine .bands { height: 6px; border-top: 2px solid #6e5532; border-bottom: 2px solid #6e5532;
+                                           background: linear-gradient(180deg, rgba(0,0,0,.45), rgba(150,115,60,.35), rgba(0,0,0,.45));
+                                           box-shadow: 0 1px 1px rgba(0,0,0,.6); }
+    body[data-theme="got"] .front.captioned img { position: absolute; left: 9px; top: 9px; width: calc(100% - 18px); height: calc(100% - 66px);
+                                                  border: 1px solid rgba(120,90,45,.9); box-shadow: 0 0 0 2px rgba(0,0,0,.55), inset 0 0 18px rgba(0,0,0,.7);
+                                                  filter: sepia(.28) saturate(.82) contrast(1.06) brightness(.9); }
+    body[data-theme="got"] .front.captioned::after { content: ""; position: absolute; inset: 0; pointer-events: none; z-index: 2;
+                                                     box-shadow: inset 0 0 22px rgba(0,0,0,.8), inset 0 0 3px rgba(0,0,0,.9); }
+    body[data-theme="got"] .front .cap { left: 9px; right: 9px; bottom: 9px; height: 44px; border: 1px solid #5a4320; border-radius: 2px;
+                                         background: radial-gradient(ellipse at 50% 40%, #d8c398 0%, #c2a774 55%, #9c7f4e 100%);
+                                         box-shadow: inset 0 0 10px rgba(80,50,20,.55), 0 1px 3px rgba(0,0,0,.6);
+                                         color: #2c1a0b; text-shadow: 0 1px 0 rgba(255,240,210,.35); font-size: 13px; letter-spacing: .05em; }
     #picker { position: absolute; z-index: 40; inset: 0; display: flex; flex-direction: column; align-items: center; justify-content: center; gap: 46px;
               background: radial-gradient(ellipse at 50% 30%, var(--panel-1), var(--panel-2) 75%); opacity: 0; pointer-events: none; transition: opacity .35s; }
     #picker.open { opacity: 1; }

diff --git a/adult-space/hogwarts/themes/theme.js b/adult-space/hogwarts/themes/theme.js
@@ -34,6 +34,24 @@
     body[data-theme="got"] #moonglow, body[data-theme="got"] #cloud1, body[data-theme="got"] #potG, body[data-theme="got"] #potP,
     body[data-theme="got"] #potA { display: none !important; }
     body[data-nogarden] #toGarden { display: none !important; }
+    /* Game of Thrones books: rustic. Worn leather, bronze bands, the art inlaid like a plate, a parchment label */
+    body[data-theme="got"] .spine .roman { margin-top: 3px; font-family: "Cinzel", Georgia, serif; font-weight: 700; font-size: 14px;
+                                           color: #d9b778; letter-spacing: .04em; }
+    body[data-theme="got"] .spine .stitle { font-family: "Cinzel", Georgia, serif; font-weight: 600; font-size: 13px; letter-spacing: .12em;
+                                            color: #c9a66a; text-transform: uppercase; }
+    body[data-theme="got"] .spine .star { visibility: hidden; }
+    body[data-theme="got"] .spine .bands { height: 6px; border-top: 2px solid #6e5532; border-bottom: 2px solid #6e5532;
+                                           background: linear-gradient(180deg, rgba(0,0,0,.45), rgba(150,115,60,.35), rgba(0,0,0,.45));
+                                           box-shadow: 0 1px 1px rgba(0,0,0,.6); }
+    body[data-theme="got"] .front.captioned img { position: absolute; left: 9px; top: 9px; width: calc(100% - 18px); height: calc(100% - 66px);
+                                                  border: 1px solid rgba(120,90,45,.9); box-shadow: 0 0 0 2px rgba(0,0,0,.55), inset 0 0 18px rgba(0,0,0,.7);
+                                                  filter: sepia(.28) saturate(.82) contrast(1.06) brightness(.9); }
+    body[data-theme="got"] .front.captioned::after { content: ""; position: absolute; inset: 0; pointer-events: none; z-index: 2;
+                                                     box-shadow: inset 0 0 22px rgba(0,0,0,.8), inset 0 0 3px rgba(0,0,0,.9); }
+    body[data-theme="got"] .front .cap { left: 9px; right: 9px; bottom: 9px; height: 44px; border: 1px solid #5a4320; border-radius: 2px;
+                                         background: radial-gradient(ellipse at 50% 40%, #d8c398 0%, #c2a774 55%, #9c7f4e 100%);
+                                         box-shadow: inset 0 0 10px rgba(80,50,20,.55), 0 1px 3px rgba(0,0,0,.6);
+                                         color: #2c1a0b; text-shadow: 0 1px 0 rgba(255,240,210,.35); font-size: 13px; letter-spacing: .05em; }
     #picker { position: absolute; z-index: 40; inset: 0; display: flex; flex-direction: column; align-items: center; justify-content: center; gap: 46px;
               background: radial-gradient(ellipse at 50% 30%, var(--panel-1), var(--panel-2) 75%); opacity: 0; pointer-events: none; transition: opacity .35s; }
     #picker.open { opacity: 1; }

diff --git a/adult-space/hogwarts-tv/app/src/main/assets/www/themes/got.js b/adult-space/hogwarts-tv/app/src/main/assets/www/themes/got.js
@@ -137,12 +137,12 @@
   function drawJet(t) {
     if (!jet) return;
     const sh = SHEET.breath, act = owl.act, [f0, f1] = sh ? sh.fire : [0, 0];
-    const live = act && act.k === "breath" && act.t > f0 && act.t < f1 + .25;
+    const live = act && act.k === "breath" && act.t > f0 && act.t < f1 + .06;     // only while the jaws are open
     if (!live || !jet.img.complete) { css(jet.cv, "visibility", "hidden"); return; }
     // straight out of the jaws, level, through the icon and out past it on the far side: the blast engulfs it
     const F = jet.F, [mx, my] = mouth(), tx = appX(owl.at) + owl.face * 90, ty = ICON_Y + 6;
     const ang = Math.atan2(ty - my, tx - mx), dist = Math.hypot(tx - mx, ty - my);
-    const grow = clamp((act.t - f0) / .32, 0, 1), die = clamp((f1 + .25 - act.t) / .35, 0, 1);
+    const grow = clamp((act.t - f0) / .32, 0, 1), die = clamp((f1 + .06 - act.t) / .22, 0, 1);
     const full = Math.max(240, dist + 40), len = full * ease(grow);
     const k = full / F.w;                                        // the footage's length, scaled to the blast
     css(jet.cv, "visibility", "visible");
@@ -272,7 +272,8 @@
       const [f0, f1] = b.fire, mid = Math.floor((f0 + f1) / 2 * b.fps);
       // stand beside the app, low on the floor in front of the dock, so that at full lunge the open jaws are level
       // with the icon's middle and GAP px to its side: the fire then leaves the mouth level, the way the head points
-      const reach = b.mouth[mid][0] - b.footX, rise = b.footY - b.mouth[mid][1], GAP = 80;
+      const reach = b.mouth[mid][0] - b.footX, rise = b.footY - b.mouth[mid][1], GAP = 92;
+      window.DOCK_CELL = 380; buildDock();                       // room between the apps for the dragon to land in
       const big = 1.12;                                     // a touch bigger than its sheets, to read from the sofa
       useMascot(D, D.idle.h * big, { up: D.hop.up, down: D.hop.down, end: D.hop.end, rate: 1.6 },
                 { perchDx: reach * big + GAP, perchY: () => ICON_Y + rise * big });
@@ -291,6 +292,7 @@
       if (jet) { jet.cv.remove(); jet = null; }
       for (const i in roast) if (roast[i].el) roast[i].el.style.filter = "";
       roast = {}; fire = [];
+      window.DOCK_CELL = 0; buildDock();
       useMascot(OWL_SHEETS, 128, { up: 0.65, down: 2.22, end: 3.0, rate: 1.7 });
       setFilms(FILMS_HP);
       const lib = $("#toLib"); if (lib && lib.firstChild) lib.firstChild.textContent = "The Library";

diff --git a/adult-space/hogwarts/themes/got.js b/adult-space/hogwarts/themes/got.js
@@ -137,12 +137,12 @@
   function drawJet(t) {
     if (!jet) return;
     const sh = SHEET.breath, act = owl.act, [f0, f1] = sh ? sh.fire : [0, 0];
-    const live = act && act.k === "breath" && act.t > f0 && act.t < f1 + .25;
+    const live = act && act.k === "breath" && act.t > f0 && act.t < f1 + .06;     // only while the jaws are open
     if (!live || !jet.img.complete) { css(jet.cv, "visibility", "hidden"); return; }
     // straight out of the jaws, level, through the icon and out past it on the far side: the blast engulfs it
     const F = jet.F, [mx, my] = mouth(), tx = appX(owl.at) + owl.face * 90, ty = ICON_Y + 6;
     const ang = Math.atan2(ty - my, tx - mx), dist = Math.hypot(tx - mx, ty - my);
-    const grow = clamp((act.t - f0) / .32, 0, 1), die = clamp((f1 + .25 - act.t) / .35, 0, 1);
+    const grow = clamp((act.t - f0) / .32, 0, 1), die = clamp((f1 + .06 - act.t) / .22, 0, 1);
     const full = Math.max(240, dist + 40), len = full * ease(grow);
     const k = full / F.w;                                        // the footage's length, scaled to the blast
     css(jet.cv, "visibility", "visible");
@@ -272,7 +272,8 @@
       const [f0, f1] = b.fire, mid = Math.floor((f0 + f1) / 2 * b.fps);
       // stand beside the app, low on the floor in front of the dock, so that at full lunge the open jaws are level
       // with the icon's middle and GAP px to its side: the fire then leaves the mouth level, the way the head points
-      const reach = b.mouth[mid][0] - b.footX, rise = b.footY - b.mouth[mid][1], GAP = 80;
+      const reach = b.mouth[mid][0] - b.footX, rise = b.footY - b.mouth[mid][1], GAP = 92;
+      window.DOCK_CELL = 380; buildDock();                       // room between the apps for the dragon to land in
       const big = 1.12;                                     // a touch bigger than its sheets, to read from the sofa
       useMascot(D, D.idle.h * big, { up: D.hop.up, down: D.hop.down, end: D.hop.end, rate: 1.6 },
                 { perchDx: reach * big + GAP, perchY: () => ICON_Y + rise * big });
@@ -291,6 +292,7 @@
       if (jet) { jet.cv.remove(); jet = null; }
       for (const i in roast) if (roast[i].el) roast[i].el.style.filter = "";
       roast = {}; fire = [];
+      window.DOCK_CELL = 0; buildDock();
       useMascot(OWL_SHEETS, 128, { up: 0.65, down: 2.22, end: 3.0, rate: 1.7 });
       setFilms(FILMS_HP);
       const lib = $("#toLib"); if (lib && lib.firstChild) lib.firstChild.textContent = "The Library";

diff --git a/adult-space/hogwarts-tv/app/src/main/assets/www/index.html b/adult-space/hogwarts-tv/app/src/main/assets/www/index.html
@@ -382,7 +382,7 @@ const LOGOS = {
 const NO_LOGO = new Set();                                     // logo files that failed to load: those apps get their name
 function logoMissing(f) { if (NO_LOGO.has(f)) return; NO_LOGO.add(f); buildDock(); }
 const logoFor = e => (LOGOS[e.pkg] && !NO_LOGO.has(LOGOS[e.pkg].f) ? LOGOS[e.pkg] : null) || (e.pkg.startsWith("input:") && /playstation|\bps[345]\b/i.test(e.pkg + " " + e.label) ? LOGOS.playstation : null);
-const CELL = 292;
+let CELL = 292;                                               // one app's slot on the dock; a theme may ask for more room (DOCK_CELL)
 let DOCK_X = 84, APPS = [], cells = [];
 const dock = $("#dock");
 let app = parseInt(hash("app") || "2");
@@ -392,6 +392,7 @@ function buildDock() {
     return Object.assign({ n: e.label, target: e.pkg }, L || { size, dh: size, perch: 0.1 });
   });
   if (!APPS.length) APPS = [{ n: "Customise", target: "customise", size: 52, dh: 52, perch: 0.1 }];   // nothing chosen yet
+  CELL = Math.min(window.DOCK_CELL || 292, Math.floor(1860 / APPS.length));   // Pantheon: wider gaps if the theme asks, still on screen
   DOCK_X = (1920 - CELL * APPS.length) / 2;
   dock.style.left = DOCK_X + "px"; dock.style.width = CELL * APPS.length + "px";
   dock.innerHTML = "";

diff --git a/adult-space/hogwarts/index.html b/adult-space/hogwarts/index.html
@@ -382,7 +382,7 @@ const LOGOS = {
 const NO_LOGO = new Set();                                     // logo files that failed to load: those apps get their name
 function logoMissing(f) { if (NO_LOGO.has(f)) return; NO_LOGO.add(f); buildDock(); }
 const logoFor = e => (LOGOS[e.pkg] && !NO_LOGO.has(LOGOS[e.pkg].f) ? LOGOS[e.pkg] : null) || (e.pkg.startsWith("input:") && /playstation|\bps[345]\b/i.test(e.pkg + " " + e.label) ? LOGOS.playstation : null);
-const CELL = 292;
+let CELL = 292;                                               // one app's slot on the dock; a theme may ask for more room (DOCK_CELL)
 let DOCK_X = 84, APPS = [], cells = [];
 const dock = $("#dock");
 let app = parseInt(hash("app") || "2");
@@ -392,6 +392,7 @@ function buildDock() {
     return Object.assign({ n: e.label, target: e.pkg }, L || { size, dh: size, perch: 0.1 });
   });
   if (!APPS.length) APPS = [{ n: "Customise", target: "customise", size: 52, dh: 52, perch: 0.1 }];   // nothing chosen yet
+  CELL = Math.min(window.DOCK_CELL || 292, Math.floor(1860 / APPS.length));   // Pantheon: wider gaps if the theme asks, still on screen
   DOCK_X = (1920 - CELL * APPS.length) / 2;
   dock.style.left = DOCK_X + "px"; dock.style.width = CELL * APPS.length + "px";
   dock.innerHTML = "";

diff --git a/adult-space/hogwarts/tools/dragon_sprites.py b/adult-space/hogwarts/tools/dragon_sprites.py
@@ -52,6 +52,27 @@ def key(rgb):
     return out
 
 
+def jaw_gap(al, tip_x, tip_y, tall):
+    """The open mouth. Its inside is solid (palate, tongue), so it's found from the head's profile: going down from
+    the snout tip, the front edge (the frontmost opaque pixel of each row) runs back along the upper jaw, cuts in
+    at the mouth (the notch), then juts out again at the lower jaw. Fire starts in the notch, level with it and
+    midway out between the two jaw tips. None if there's no notch (jaws shut)."""
+    y0, y1 = int(tip_y), int(tip_y + 0.24 * tall)
+    x_min = int(tip_x - 0.2 * tall)
+    rows = al[y0:y1, x_min:tip_x + 1] > 128
+    front = np.array([(np.nonzero(r)[0].max() if r.any() else -1) for r in rows], float)
+    if (front < 0).all():
+        return None
+    front[front < 0] = np.nan
+    lo = int(np.nanargmax(np.nan_to_num(front[len(front) // 3:], nan=-1)) + len(front) // 3)   # the lower jaw's tip
+    notch = int(np.nanargmin(front[:lo + 1]))                                                    # the deepest cut above it
+    depth = min(np.nanmax(front[:notch + 1]), front[lo]) - front[notch]
+    if notch == 0 or depth < 0.03 * tall:
+        return None
+    lower_tip = front[lo]
+    return x_min + (front[notch] + lower_tip) / 2, y0 + notch
+
+
 def bottom_front(alpha, x_from):
     """The lowest opaque row among columns right of x_from (the legs; the tail curls to the left)."""
     ys, xs = np.nonzero(alpha[:, x_from:] > 128)
@@ -90,16 +111,19 @@ for name, cl in clips.items():
     uy, ux = np.nonzero(used)
     x0, y0, x1, y1 = ux.min(), uy.min(), ux.max() + 1, uy.max() + 1
     cw, ch = round((x1 - x0) * k), round((y1 - y0) * k)
-    pieces, rects, mouth, lows = [], [], [], []
+    pieces, rects, mouth, lows, jaws_open = [], [], [], [], []
     for fr in cl:
         al = fr[..., 3]
         ys_, xs_ = np.nonzero(al > 128)
         if len(xs_):
-            mx = xs_.max()                                           # the snout: the dragon faces right
+            mx = xs_.max()                                           # the snout tip: the dragon faces right
             my = ys_[xs_ >= mx - 6].mean()
+            gap = jaw_gap(al, mx, my, tall) if name == "breath" else None
+            jaws_open.append(gap is not None)
+            if gap: mx, my = gap                                     # the mouth, between the jaws' tips
             mouth.append([round((mx - x0) * k, 1), round((my - y0) * k, 1)])
         else:
-            mouth.append(mouth[-1] if mouth else [0, 0])
+            mouth.append(mouth[-1] if mouth else [0, 0]); jaws_open.append(False)
         lows.append(bottom_front(al, x_legs))
         cell = Image.fromarray(fr[y0:y1, x0:x1]).resize((cw, ch), Image.LANCZOS)
         box = cell.getchannel("A").point(lambda v: 255 if v > 2 else 0).getbbox() or (0, 0, 1, 1)
@@ -116,10 +140,12 @@ for name, cl in clips.items():
     sheet.save(os.path.join(DIR, name + ".webp"), quality=84, method=6)
     m = dict(src=f"dragon/{name}.webp", n=len(rows), fps=fps, cw=cw, ch=ch, h=DRAGON_H,
              footX=round((foot[0] - x0) * k, 1), footY=round((foot[1] - y0) * k, 1), frames=rows)
-    if name == "breath":                                             # fire while the jaws are thrust forward
+    if name == "breath":                                             # fire only while the jaws are thrust forward AND open
         mx0 = mouth[0][0]
         reach = np.array([mo[0] - mx0 for mo in mouth])
-        on = np.nonzero(reach > 0.45 * reach.max())[0]
+        ok = (reach > 0.45 * reach.max()) & np.array(jaws_open)
+        runs = np.split(np.nonzero(ok)[0], np.nonzero(np.diff(np.nonzero(ok)[0]) > 1)[0] + 1)
+        on = max(runs, key=len)                                      # the longest stretch of open, forward jaws
         m["mouth"] = mouth
         m["fire"] = [round(on.min() / fps, 2), round((on.max() + 1) / fps, 2)]
         print(f"breath: jaws forward {m['fire'][0]}-{m['fire'][1]} s")

diff --git a/adult-space/hogwarts/tools/fire_sprites.py b/adult-space/hogwarts/tools/fire_sprites.py
@@ -35,10 +35,21 @@ src_y = float((np.arange(H) * left ** 4).sum() / (left ** 4).sum())
 k = W_OUT / W
 w, h = W_OUT, round((y1 - y0) * k)
 
+# the footage's jet enters from the frame edge, a solid bar cut dead straight: taper it into a narrow, soft start, so
+# it leaves the jaws like breath from a throat (a cone: thin at x=0, its full width after NOZZLE px), fading in
+NOZZLE = 0.16 * W
+xs = np.arange(W)[None, :]; yy = np.arange(y0, y1)[:, None]
+u = np.clip(xs / NOZZLE, 0, 1); u = u * u * (3 - 2 * u)
+half = 7 + (H * 0.5 - 7) * u                                  # the cone's half-height, px in the source frame
+cone = 1 - np.clip(np.abs(yy - src_y) / half, 0, 1); cone = cone * cone * (3 - 2 * cone)   # soft all the way: no edge
+fade_in = np.clip(xs / (0.025 * W), 0, 1)
+taper = cone * fade_in
+
 frames, cells = [], []
 for fr in loop:
     rgb = fr[y0:y1]
-    a = np.clip((rgb.max(-1) - 6) / 235, 0, 1) ** 0.8    # brightness -> opacity (a little fuller than linear)
+    # brightness -> opacity; the footage's faint brownish glow around the jet (below ~40) is dropped: only real flame
+    a = np.clip((rgb.max(-1) - 40) / 200, 0, 1) ** 0.85 * taper
     col = np.where(a[..., None] > 0.004, rgb / np.maximum(a[..., None], 0.004), 0)
     rgba = np.dstack([col.clip(0, 255), a * 255]).astype(np.uint8)
     cells.append(Image.fromarray(rgba).resize((w, h), Image.LANCZOS))
